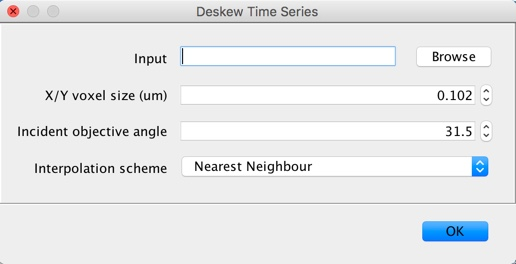
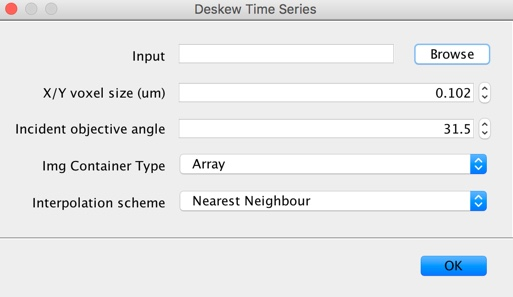
Add use of different imglib2 containers
Modifies reader interpreter to allow different `ImgFactory`s. Updates
ImageJ plugins to support user choice of Cell, Array and Planar
`ImgFactory`s. Doc updates.

diff --git a/docs/src/main/tut/docs/users/imagej.md b/docs/src/main/tut/docs/users/imagej.md
@@ -25,6 +25,7 @@ _Table 1: Deskew Single Stack Parameters_
 |: --- | :---------------------|
 | X/Y Voxel Size | Physical size of X and Y in voxel |
 | Sample Piezo Increment | Interval of the sample piezo stage for each Z slice |
+| Img Container Type |  `imglib2` offers several Img container types. Each have different performance characteristics in terms of access rates and memory usage. By default the CellImg is used, which is conservative with memory usage but has some cost in performance. ArrayImg offer best access performance, but all image data is stored in memory |
 | Interpolation Scheme<sup>1</sup> | Type of interpolation used for when shearing factor is not equivalent to the pixel size |
 
 <sup>1</sup>Further information about interpolation schemes can be found in
@@ -44,18 +45,23 @@ Figure 1: Deskew Single Stack Parameters GUI
 This plugin allows one to load, deskew and preview an entire LLSM dataset.
 
 1. Run `Plugins → LLSM → Deskew Time Series`
-2. Enter input directory and deskewing parameters (Fig 2. and Table 2).
+2. Select an input directory
+3. Input deskewing parameters (Fig 2. and Table 2).
 3. Click OK.
 
 <br>
 
-_Table 2: Deskew Time Series Parameters_
+_Table 2: Deskew Parameters_
 
 | Name | Parameter Description |
 |: --- | :---------------------|
 | X/Y Voxel Size | Physical size of X and Y in voxel |
 | Incident Objective Angle | Angle between the stage and the illumination objective. |
+| Img Container Type |  `imglib2` offers several Img container types. Each have different performance characteristics in terms of access rates and memory usage. By default the CellImg is used, which is conservative with memory usage but has some cost in performance. ArrayImg offer best access performance, but all image data is stored in memory |
 | Interpolation Scheme<sup>1</sup> | Type of interpolation used for when shearing factor is not equivalent to the pixel size |
+
+<sup>1</sup>Further information about interpolation schemes can be found in
+[Deskew Information](deskew.html)
 
 <br>
 
@@ -71,5 +77,18 @@ Figure 2: Deskew Time Series Parameters GUI
 Allows one to load, deskew and output an LLSM dataset as either an HDF5 or
 OME-TIFF.
 
-_Documentation to follow..._
+1. Run `Plugings → LLSM → Convert Time Series`
+2. Select an input directory contain raw LLSM data (i.e., TIFF series +
+metadata file).
+3. Select an output directory.
+4. Input an output file name with either a `.h5` or `.ome.tif` extension.
+5. Input deskewing parameters (Fig. 3 and Table 2).
+6. Click OK.
 
+<br>
+
+
+![Convert Time Series](../../img/convert.jpg){: .img-responsive .center-block}
+
+Figure 3: Convert Time Series Parameters GUI
+{: .text-center}
